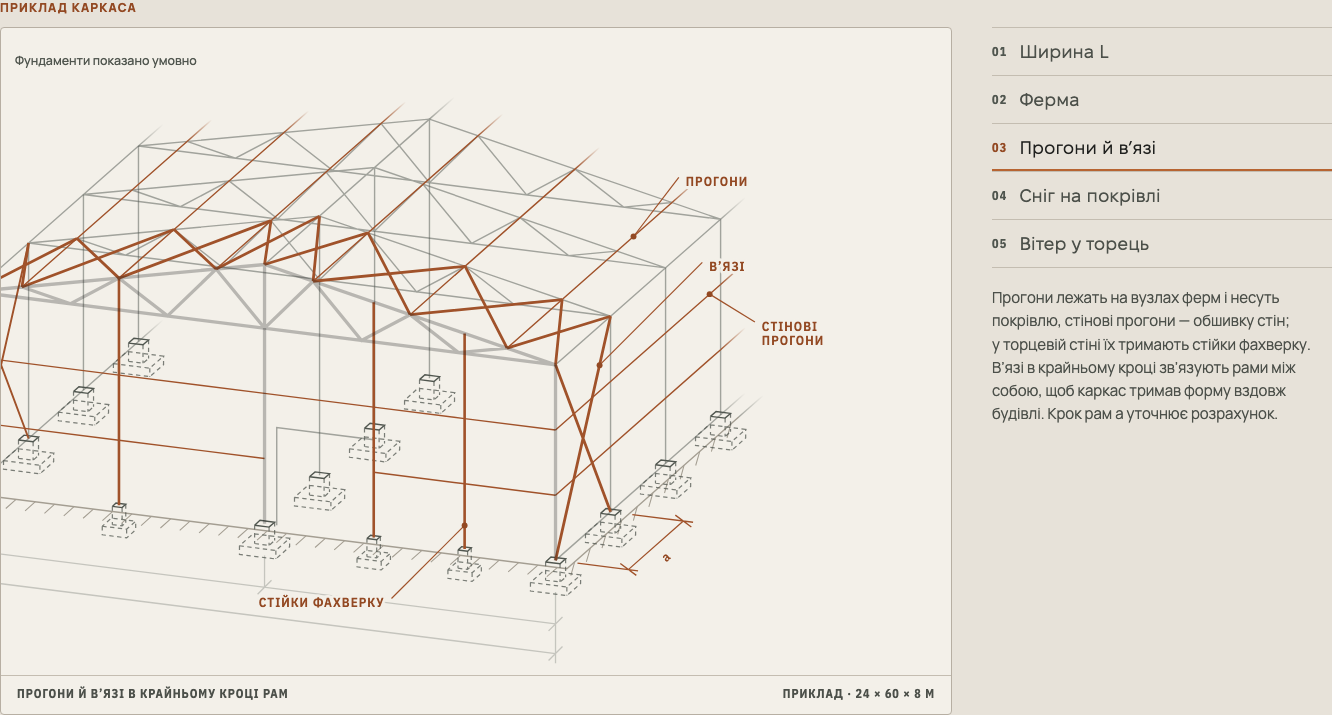
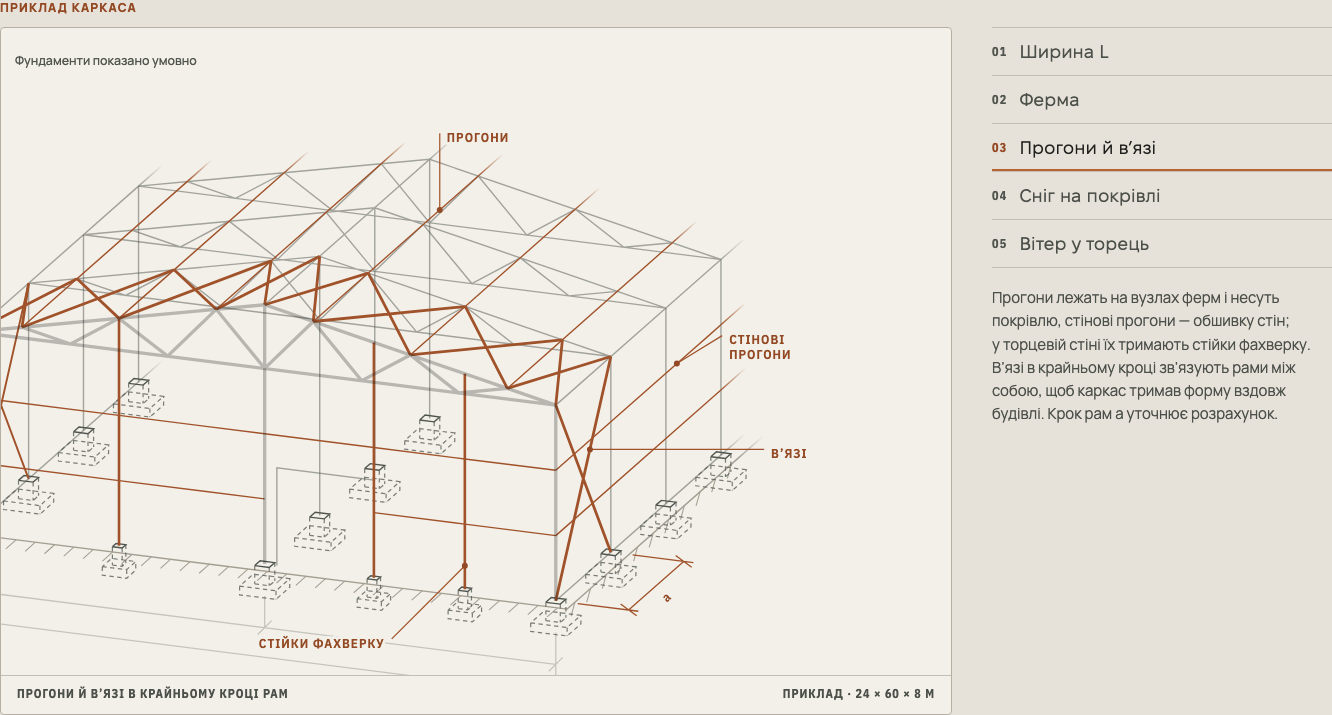
fix(drawing): уточнити виноски прогонів і в’язей

diff --git a/design-assets/reviews/architectural-daylight/light-frame/index.html b/design-assets/reviews/architectural-daylight/light-frame/index.html
@@ -1,1 +1,1 @@
-<!doctype html><html lang="uk"><head><meta charset="utf-8"><meta name="viewport" content="width=device-width,initial-scale=1"><title>RUBIKON / Світлий інженерний аркуш</title><style>*{box-sizing:border-box}body{margin:0;background:#e7e2d9;color:#20211f;font:16px/1.5 system-ui,sans-serif}main{max-width:1500px;padding:32px;margin:auto}h1{font-size:clamp(30px,4vw,52px);font-weight:500;letter-spacing:-.04em;margin:12px 0}h2{font-size:23px;font-weight:500}p{max-width:900px}a{color:#934923;text-underline-offset:4px}.bar{display:flex;gap:8px;flex-wrap:wrap;margin:18px 0}button,a.button{font:inherit;color:#20211f;background:#f3f0e9;border:1px solid #a49e92;padding:10px 16px;min-height:44px;cursor:pointer;text-decoration:none;display:inline-flex;align-items:center}button[aria-pressed=true]{background:#934923;color:#f3f0e9;border-color:#934923}:focus-visible{outline:3px solid #934923;outline-offset:3px}.compare{display:grid;grid-template-columns:1fr 1fr;gap:20px}.compare>div{min-width:0}.label{border-top:2px solid #a49e92;padding:12px 0}.new .label{border-color:#934923}img{display:block;width:100%;height:auto;border:1px solid #b7afa3}.mobile{max-width:430px}.note{font-size:13px;color:#50564f}.sample{margin-top:34px;border-top:1px solid #c4bdb1;padding-top:16px}.current{max-width:1332px}.eyebrow{font-size:12px;color:#934923;font-weight:700;letter-spacing:.12em}@media(max-width:760px){main{padding:20px}.compare{grid-template-columns:1fr}}</style></head><body><main><div class="eyebrow">RUBIKON BUILD · ПРОТОТИП · 05.11.2026</div><h1>Світлий інженерний аркуш</h1><p>Графітовий каркас на теплому папері. Мідь показує конструкцію, синій — сніг, бірюзовий — вітер. Геометрія, камера й анімація збережені; Dark лишається початковим.</p><div class="bar"><a class="button" href="http://localhost:4175/#engineering" target="_blank">Відкрити живий каркас ↗</a><a class="button" href="https://github.com/leusd100/rubikon-build/pull/302" target="_blank">Draft PR #302 ↗</a><a class="button" href="review.md">Що змінено й перевірено</a></div><h2>До / після у Light · вітер</h2><div class="bar"><button data-width="1440" aria-pressed="true">Desktop · 1440</button><button data-width="390" aria-pressed="false">Mobile · 390</button></div><div class="compare"><div><div class="label">До: темний планшет у світлій темі</div><a id="before-link" href="before-1440-light-wind.png" target="_blank"><img id="before" src="before-1440-light-wind.png" alt="Попередній темний каркас у Light"></a></div><div class="new"><div class="label">Після: світле креслення</div><a id="after-link" href="chromium-1440-light-step5.png" target="_blank"><img id="after" src="chromium-1440-light-step5.png" alt="Світлий каркас, вітер"></a></div></div><p class="note">Порівняння зафіксоване з reduced motion: деформація та пояснювальна примітка показані одразу. Це реальні браузерні знімки, не перемальовані зображення.</p><section class="sample"><h2>Огляд і всі п’ять режимів</h2><div class="bar" id="steps"><button data-step="0" aria-pressed="false">Огляд</button><button data-step="1" aria-pressed="false">01 · Ширина</button><button data-step="2" aria-pressed="false">02 · Ферма</button><button data-step="3" aria-pressed="false">03 · В’язі</button><button data-step="4" aria-pressed="false">04 · Сніг</button><button data-step="5" aria-pressed="true">05 · Вітер</button></div><a id="state-link" href="chromium-1440-light-step5.png" target="_blank"><img class="current" id="state" src="chromium-1440-light-step5.png" alt="Обраний стан каркаса"></a></section><section class="sample"><h2>Звичайний режим із керуванням показом</h2><a href="desktop-wind-normal.png" target="_blank"><img class="current" src="desktop-wind-normal.png" alt="Світлий каркас у звичайному режимі з керуванням анімацією"></a><p class="note">Оригінальний ProofContour із фото ангара під цим блоком збережений на темному тлі. Галерея є матеріалом для перегляду та не входить до public/ сайту.</p></section></main><script>let width='1440',step='5';function render(){const before=`before-${width}-light-wind.png`,after=`chromium-${width}-light-step5.png`,state=`chromium-${width}-light-step${step}.png`;document.getElementById('before').src=before;document.getElementById('before-link').href=before;document.getElementById('after').src=after;document.getElementById('after-link').href=after;document.getElementById('state').src=state;document.getElementById('state-link').href=state;document.getElementById('state').classList.toggle('mobile',width==='390');document.querySelectorAll('[data-width]').forEach(b=>b.setAttribute('aria-pressed',b.dataset.width===width));document.querySelectorAll('[data-step]').forEach(b=>b.setAttribute('aria-pressed',b.dataset.step===step))}document.querySelectorAll('[data-width]').forEach(b=>b.onclick=()=>{width=b.dataset.width;render()});document.querySelectorAll('[data-step]').forEach(b=>b.onclick=()=>{step=b.dataset.step;render()});</script></body></html>
+<!doctype html><html lang="uk"><head><meta charset="utf-8"><meta name="viewport" content="width=device-width,initial-scale=1"><title>RUBIKON / Світлий інженерний аркуш</title><style>*{box-sizing:border-box}body{margin:0;background:#e7e2d9;color:#20211f;font:16px/1.5 system-ui,sans-serif}main{max-width:1500px;padding:32px;margin:auto}h1{font-size:clamp(30px,4vw,52px);font-weight:500;letter-spacing:-.04em;margin:12px 0}h2{font-size:23px;font-weight:500}p{max-width:900px}a{color:#934923;text-underline-offset:4px}.bar{display:flex;gap:8px;flex-wrap:wrap;margin:18px 0}button,a.button{font:inherit;color:#20211f;background:#f3f0e9;border:1px solid #a49e92;padding:10px 16px;min-height:44px;cursor:pointer;text-decoration:none;display:inline-flex;align-items:center}button[aria-pressed=true]{background:#934923;color:#f3f0e9;border-color:#934923}:focus-visible{outline:3px solid #934923;outline-offset:3px}.compare{display:grid;grid-template-columns:1fr 1fr;gap:20px}.compare>div{min-width:0}.label{border-top:2px solid #a49e92;padding:12px 0}.new .label{border-color:#934923}img{display:block;width:100%;height:auto;border:1px solid #b7afa3}.mobile{max-width:430px}.note{font-size:13px;color:#50564f}.sample{margin-top:34px;border-top:1px solid #c4bdb1;padding-top:16px}.current{max-width:1332px}.eyebrow{font-size:12px;color:#934923;font-weight:700;letter-spacing:.12em}@media(max-width:760px){main{padding:20px}.compare{grid-template-columns:1fr}}</style></head><body><main><div class="eyebrow">RUBIKON BUILD · ПРОТОТИП · 05.11.2026</div><h1>Світлий інженерний аркуш</h1><p>Графітовий каркас на теплому папері. Мідь показує конструкцію, синій — сніг, бірюзовий — вітер. Конструкція й анімація збережені. Уточнені виноски «Прогони» та «В’язі» працюють в обох темах; палітра Dark збережена.</p><div class="bar"><a class="button" href="http://localhost:4175/#engineering" target="_blank">Відкрити живий каркас ↗</a><a class="button" href="https://github.com/leusd100/rubikon-build/pull/302" target="_blank">Draft PR #302 ↗</a><a class="button" href="review.md">Що змінено й перевірено</a></div><h2>До / після у Light · вітер</h2><div class="bar"><button data-width="1440" aria-pressed="true">Desktop · 1440</button><button data-width="390" aria-pressed="false">Mobile · 390</button></div><div class="compare"><div><div class="label">До: темний планшет у світлій темі</div><a id="before-link" href="before-1440-light-wind.png" target="_blank"><img id="before" src="before-1440-light-wind.png" alt="Попередній темний каркас у Light"></a></div><div class="new"><div class="label">Після: світле креслення</div><a id="after-link" href="chromium-1440-light-step5.png" target="_blank"><img id="after" src="chromium-1440-light-step5.png" alt="Світлий каркас, вітер"></a></div></div><p class="note">Порівняння зафіксоване з reduced motion: деформація та пояснювальна примітка показані одразу. Це реальні браузерні знімки, не перемальовані зображення.</p><section class="sample"><h2>Огляд і всі п’ять режимів</h2><div class="bar" id="steps"><button data-step="0" aria-pressed="false">Огляд</button><button data-step="1" aria-pressed="false">01 · Ширина</button><button data-step="2" aria-pressed="false">02 · Ферма</button><button data-step="3" aria-pressed="true">03 · В’язі</button><button data-step="4" aria-pressed="false">04 · Сніг</button><button data-step="5" aria-pressed="false">05 · Вітер</button></div><a id="state-link" href="chromium-1440-light-step3.png" target="_blank"><img class="current" id="state" src="chromium-1440-light-step3.png" alt="Обраний стан каркаса"></a></section><section class="sample"><h2>Звичайний режим із керуванням показом</h2><a href="desktop-wind-normal.png" target="_blank"><img class="current" src="desktop-wind-normal.png" alt="Світлий каркас у звичайному режимі з керуванням анімацією"></a><p class="note">Оригінальний ProofContour із фото ангара під цим блоком збережений на темному тлі. Галерея є матеріалом для перегляду та не входить до public/ сайту.</p></section></main><script>let width='1440',step='3';function render(){const before=`before-${width}-light-wind.png`,after=`chromium-${width}-light-step5.png`,state=`chromium-${width}-light-step${step}.png`;document.getElementById('before').src=before;document.getElementById('before-link').href=before;document.getElementById('after').src=after;document.getElementById('after-link').href=after;document.getElementById('state').src=state;document.getElementById('state-link').href=state;document.getElementById('state').classList.toggle('mobile',width==='390');document.querySelectorAll('[data-width]').forEach(b=>b.setAttribute('aria-pressed',b.dataset.width===width));document.querySelectorAll('[data-step]').forEach(b=>b.setAttribute('aria-pressed',b.dataset.step===step))}document.querySelectorAll('[data-width]').forEach(b=>b.onclick=()=>{width=b.dataset.width;render()});document.querySelectorAll('[data-step]').forEach(b=>b.onclick=()=>{step=b.dataset.step;render()});</script></body></html>

diff --git a/app/components/angary/FrameTour.tsx b/app/components/angary/FrameTour.tsx
@@ -598,13 +598,18 @@ function frameGeometry(domain: HangarDomainModel, rowGap = ROW_GAP) {
   // other lines, which a name crosses only where no clearer place is
   const bayLines: Segment[] = [segment([W + DIM_A, 0, 0], [W + DIM_A, s, 0]), segment([W + 0.9, 0, 0], [W + DIM_A + 0.4, 0, 0]), segment([W + 0.9, s, 0], [W + DIM_A + 0.4, s, 0])];
   const greyLines = [...segmentsOf(`${backFrames}${longitudinals}${farEnd}${columnsAt(0)}${roofAt(0)}`), ...dimLines];
+  // Keep bracing leaders horizontal so they cannot read as extensions of a diagonal; place roof names above
+  // the ridge-side purlins (owner visual review, 05.11), with a first-bay fallback for short buildings.
+  const rightPurlins = purlinXs.filter((x) => x > W / 2);
+  const ridgePurlins = rightPurlins.filter((x) => x < W * 0.8);
+  const tagPurlins = ridgePurlins.length ? ridgePurlins : rightPurlins;
   const baysTags = [
-    placeTag('в’язі', [0.62, 0.4, 0.8].map((t) => ({ from: xy([W, s * t, E * t]), leaders: [[34, -10], [30, 14], [26, -28]] as Pt[] })), baysBase.view, bayTaken, bayLines, { bars, others: greyLines }),
+    placeTag('в’язі', [0.62, 0.4, 0.8].map((t) => ({ from: xy([W, s * t, E * t]), leaders: [[64, 0], [82, 0], [100, 0]] as Pt[] })), baysBase.view, bayTaken, bayLines, { bars, others: greyLines, ring: false }),
     // up from a purlin, over the roof where the picture is free (10.10, owner: «"прогони" краще показати зверху де є
     // вільне місце» — the ring had put it under the side wall, among the other names)
-    placeTag('прогони', [...purlinXs].filter((x) => x > W / 2).reverse().flatMap((x) => [1.5, 1.2, 1.9, 2.3].filter((t) => t * s < end).map((t) => ({
+    placeTag('прогони', tagPurlins.flatMap((x) => [2.3, 1.9, 1.5, 0.7].filter((t) => t * s < end).map((t) => ({
       from: xy([x, s * t, roofZ(x)]),
-      leaders: [[0, -44], [16, -42], [-16, -42], [10, -60], [-10, -60], [26, -34], [0, -78], [22, -74]] as Pt[],
+      leaders: [[0, -44], [-16, -44], [0, -60]] as Pt[],
     }))), baysBase.view, bayTaken, bayLines, { bars, others: greyLines, ring: false }),
     // on a wall purlin of the end wall, the name above or below it; else out from the side wall's
     placeTag('стінові прогони', [

diff --git a/design-assets/reviews/architectural-daylight/light-frame/review.md b/design-assets/reviews/architectural-daylight/light-frame/review.md
@@ -1,3 +1,13 @@
+## Уточнення виносок · 09:37, 05.11
+
+За зауваженням власника «Прогони» винесено над покрівлею біля коника, з вертикальною виноскою. «В’язі» мають горизонтальну виноску від розкосу: вона більше не читається продовженням діагоналі. Крапки прив’язки збережені на відповідних елементах.
+
+Це спільні підписи FrameTour, тому уточнення працює у HOME та `/angary`, в обох темах. Палітри та конструкція незмінні; камера третього кроку автоматично вміщує нові підписи. Інші кроки не змінені.
+
+Перевірено actual-browser Light/Dark у Chromium/WebKit на 1440/390px (WebKit — емуляція). Штатні перевірки розташування написів/камери й перекриття активних елементів для різних габаритів ангара: 12 pass. HOME suite: 23 pass / 1 skip. Typecheck, lint, unit: 1777 pass / 1 skip. Еталони не оновлювались.
+
+Нижче — історія попередньої ітерації палітри.
+
 # Світлий каркас HOME · 05.11.2026
 
 Створено окрему світлу палітру для «Приклад каркаса». Геометрію, камеру, порядок п’яти кроків і логіку анімації не змінено.

diff --git a/docs/handoffs/2026-11-05-frame-labels.md b/docs/handoffs/2026-11-05-frame-labels.md
@@ -1,0 +1,10 @@
+# Handoff · Уточнення виносок каркаса
+
+## Уточнення виносок · 09:37, 05.11
+
+За зауваженням власника «Прогони» винесено над покрівлею біля коника, з вертикальною виноскою. «В’язі» мають горизонтальну виноску від розкосу: вона більше не читається продовженням діагоналі. Крапки прив’язки збережені на відповідних елементах.
+
+Це спільні підписи FrameTour, тому уточнення працює у HOME та `/angary`, в обох темах. Палітри та конструкція незмінні; камера третього кроку автоматично вміщує нові підписи. Інші кроки не змінені.
+
+Перевірено actual-browser Light/Dark у Chromium/WebKit на 1440/390px (WebKit — емуляція). Штатні перевірки розташування написів/камери й перекриття активних елементів для різних габаритів ангара: 12 pass. HOME suite: 23 pass / 1 skip. Typecheck, lint, unit: 1777 pass / 1 skip. Еталони не оновлювались.
+

diff --git a/docs/handoffs/2026-11-05-light-frame-tour.md b/docs/handoffs/2026-11-05-light-frame-tour.md
@@ -1,3 +1,5 @@
+> Актуальне уточнення виносок: [05.11 · підписи каркаса](2026-11-05-frame-labels.md). Опис нижче фіксує попередню ітерацію палітри.
+
 # Handoff · Світлий каркас HOME
 
 | | |
